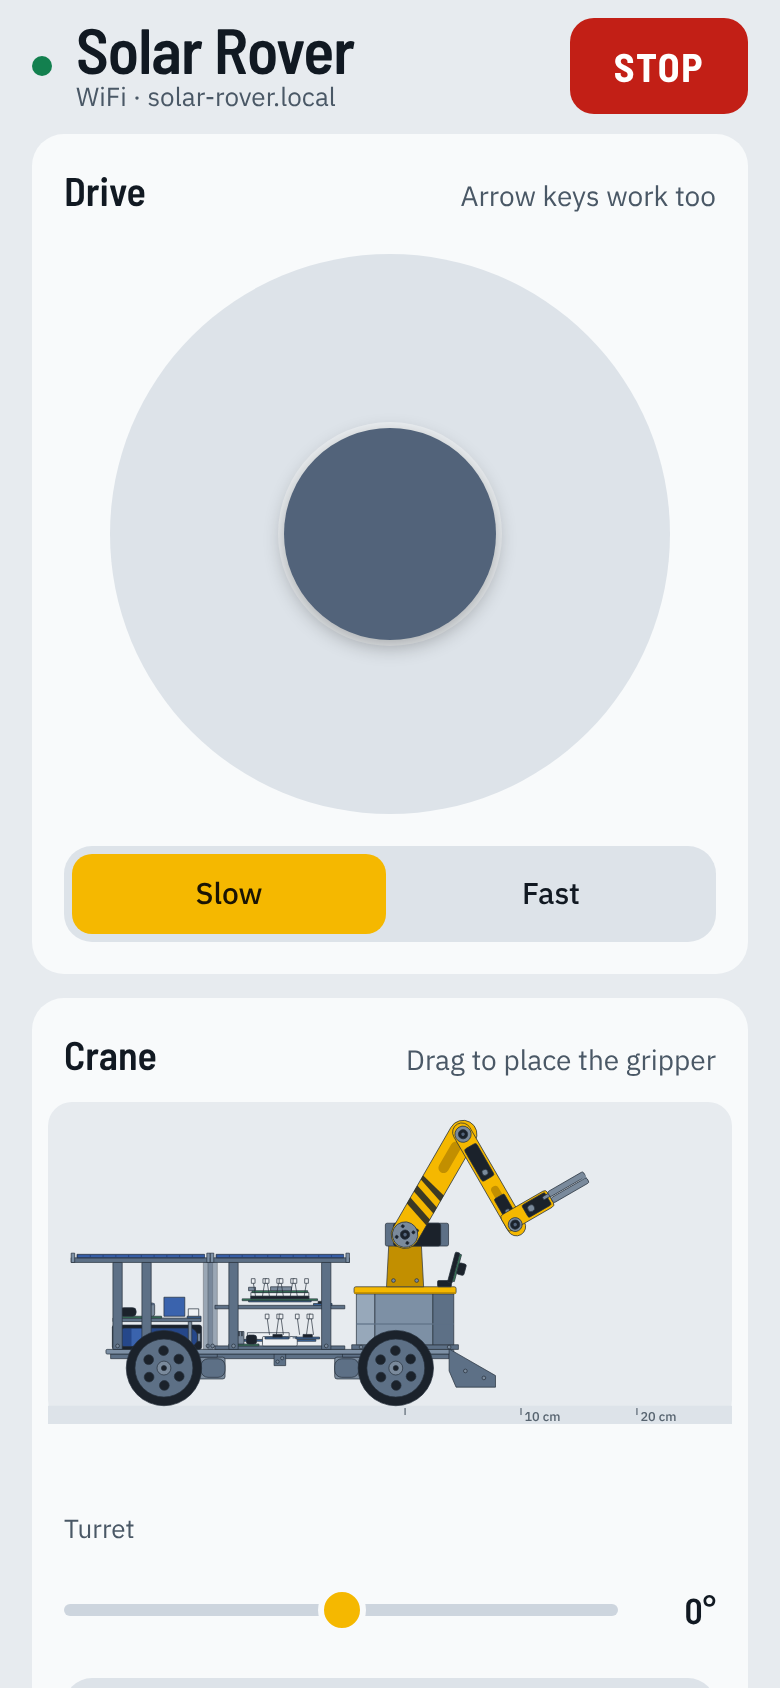
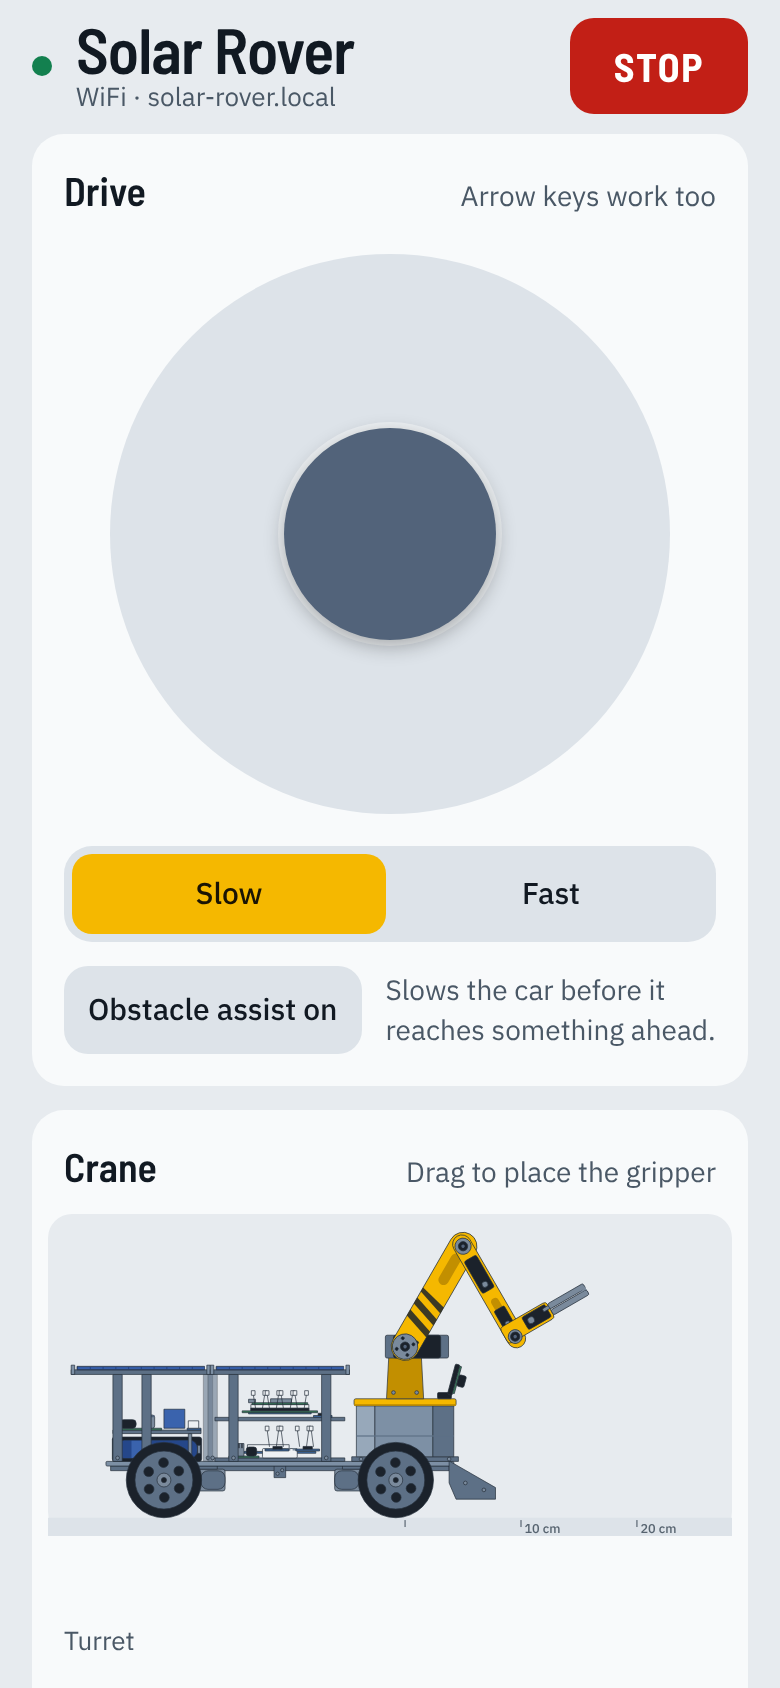
Obstacle assist for manual driving
The agent has the corner guard and the forward stop, but nothing slowed the
car when a person drove it into a wall from the phone or the remote. The
ESP32 now caps forward speed for manual sources so the car can still stop
6 cm short of what the front sensor sees (0.1 s lag, 1 m/s^2 braking), and
does the same for the corner sensor on the side being turned toward. It
never steers and never touches reverse or turning on the spot, and it is
re-checked every loop, not only when a command arrives.

- assist.h: the rule, plain C++, with a host test in CI (test_assist.cpp)
- control: applies it to manual sources only; ASSIST / ASSIST ON|OFF
  (refused from the agent link); telemetry "ast" 0 off / 1 on / 2 slowing
- app: an on/off button under the stick and a "slowing down" note; the
  browser check covers both; screenshots redrawn
- protocol, design and software docs

Claude-Session: https://claude.ai/code/session_016oPmBptoRr1DTraJVnNx7A

Changed region(s): [[0.0615, 0.5853, 0.9538, 1.0], [0.0615, 0.5545, 0.4615, 0.6469], [0.0615, 0.6777, 0.2154, 0.7085]]

diff --git a/firmware/car/web/index.html b/firmware/car/web/index.html
@@ -56,6 +56,9 @@ button:active{transform:scale(.97);background:var(--raised-2)}
 button.primary{background:var(--hazard);color:var(--on-hazard)}
 .row{display:flex;gap:var(--s2)}
 .row>*{flex:1}
+.assist{display:flex;align-items:center;gap:var(--s3);margin-top:var(--s3)}
+.assist button{flex:none}.assist .hint{margin:0}
+.assist .hint.on{color:var(--warn)}
 .seg{display:flex;gap:var(--s1);padding:var(--s1);background:var(--raised);border-radius:14px}
 .seg>button{flex:1;min-height:40px;background:transparent;border-radius:10px;padding:var(--s2) var(--s1)}
 .seg>button:active{background:var(--raised-2)}
@@ -132,6 +135,10 @@ input::placeholder{color:var(--ink-2);opacity:1}
       </div>
       <div class="seg" role="group" aria-label="Top speed">
         <button id="slow" class="sel" aria-pressed="true">Slow</button><button id="fast" aria-pressed="false">Fast</button>
+      </div>
+      <div class="assist">
+        <button id="assist" class="sel" aria-pressed="true" aria-describedby="assistHint">Obstacle assist on</button>
+        <p class="hint" id="assistHint" role="status" aria-live="polite">Slows the car before it reaches something ahead.</p>
       </div>
     </section>
     <section id="p-crane" aria-labelledby="hCrane">
@@ -271,6 +278,7 @@ input::placeholder{color:var(--ink-2);opacity:1}
     $('tof').textContent = cm(t.tof);
     $('sideRow').hidden = !t.side;   // older firmware sends no corner readings
     if (t.side) $('side').textContent = cm(t.side[0]) + ' · ' + cm(t.side[1]);
+    if (t.ast !== undefined) showAssist(t.ast);
     const v = (t.spd[0] + t.spd[1] + t.spd[2] + t.spd[3]) / 4;
     $('spd').textContent = (v / 1000).toFixed(2) + ' m/s';
     $('yawr').textContent = t.imu[5].toFixed(0) + ' °/s';
@@ -359,6 +367,18 @@ input::placeholder{color:var(--ink-2);opacity:1}
     if (Date.now() - lastYaw > 100) { lastYaw = Date.now(); send(`A ${e.target.value} * * * *`); }
   });
   $('yaw').addEventListener('change', e => send(`A ${e.target.value} * * * *`));
+
+  // ---------- obstacle assist (firmware/car/src/assist.h) ----------
+  let assistOn = true;
+  function showAssist(a) {
+    assistOn = a > 0; mark($('assist'), assistOn);
+    $('assist').textContent = assistOn ? 'Obstacle assist on' : 'Obstacle assist off';
+    const h = $('assistHint');
+    h.classList.toggle('on', a === 2);
+    h.textContent = a === 2 ? 'Slowing down: something close ahead.'
+      : assistOn ? 'Slows the car before it reaches something ahead.' : 'Off: nothing slows the car near obstacles.';
+  }
+  $('assist').onclick = () => { send(assistOn ? 'ASSIST OFF' : 'ASSIST ON'); showAssist(assistOn ? 0 : 1); };
 
   // ---------- buttons ----------
   $('stop').onclick = () => send('S');

diff --git a/tools/app_check.js b/tools/app_check.js
@@ -23,7 +23,7 @@ const TYPES = { '.html': 'text/html', '.css': 'text/css', '.js': 'text/javascrip
 // One telemetry line as firmware/car/src/telemetry.cpp writes it.
 const TEL = {
   bat_pct: 72, bat_v: 7.86, chg: 'solar', sol_mw: 3420, chg_ma: 410, temp_c: 24, tof: 820,
-  spd: [210, 205, 215, 200], imu: [0, 0, 9.8, 0, 0, 12], side: [310, -1], src: 'APP', ovr: false, mode: 'manual',
+  spd: [210, 205, 215, 200], imu: [0, 0, 9.8, 0, 0, 12], side: [310, -1], ast: 1, src: 'APP', ovr: false, mode: 'manual',
   arm: [0, 60, 120, 90, 0], low: false, crit: false,
 };
 
@@ -134,6 +134,18 @@ async function main() {
     await until(() => page.locator('#sideRow').isHidden(), 'the corner row stayed up');
     car.tel();
     await until(() => page.locator('#sideRow').isVisible(), 'the corner row did not come back');
+  });
+  await check('obstacle assist: shows when it slows the car, and the button turns it off and on', async () => {
+    car.tel({ ast: 2, tof: 140 });
+    await until(async () => (await text(page, '#assistHint')).startsWith('Slowing down'), 'no "slowing down" note');
+    car.tel(); car.clear();
+    await until(async () => !(await text(page, '#assistHint')).startsWith('Slowing'), 'the note stayed after it cleared');
+    await page.click('#assist');
+    await until(() => car.lines().includes('ASSIST OFF'), 'the button sent no ASSIST OFF');
+    expect((await page.locator('#assist').getAttribute('aria-pressed')) === 'false', 'the button still looks on');
+    car.tel({ ast: 0 }); await page.click('#assist');
+    await until(() => car.lines().includes('ASSIST ON'), 'the button sent no ASSIST ON');
+    car.tel();
   });
   await check('arrow keys drive: forward, then a stop when released', async () => {
     await page.locator('#pad').focus(); car.clear();

diff --git a/firmware/car/src/assist.h b/firmware/car/src/assist.h
@@ -1,0 +1,55 @@
+// Obstacle assist for manual driving (phone, Bluetooth, remote, USB, LoRa).
+// Plain C++ with no Arduino calls, so firmware/car/test/test_assist.cpp can
+// check it on a PC.
+//
+// The agent has its own guards (agent/solar_rover_agent/safety.py and the
+// 13 cm forward stop), trained against in the simulator, so this only runs for
+// manual sources. It never steers and never touches reverse or turning on the
+// spot: it only caps forward speed to what can still stop in time.
+//
+// Stopping model: the command reaches the wheels after ASSIST_LAG_S, then the
+// car brakes at ASSIST_DECEL_MM_S2, and must end ASSIST_MARGIN_MM short of the
+// obstacle. Solving  d - margin = v*lag + v^2 / (2*decel)  for v gives the
+// fastest safe speed for a reading d.
+#pragma once
+#include <math.h>
+
+constexpr float ASSIST_DECEL_MM_S2 = 1000.0f;  // well under the drive ramp (about 1800 mm/s^2)
+constexpr float ASSIST_LAG_S       = 0.10f;    // sensor period + loop + motor response
+constexpr float ASSIST_MARGIN_MM   = 60.0f;    // stop this far short (the nose overhangs the sensor a little)
+constexpr float ASSIST_CORNER_COS  = 0.342f;   // cos(70 deg): a thing on a corner ray closes at v*cos(70)
+
+// Fastest safe forward speed in mm/s for a reading of d mm (d < 0 = nothing seen).
+inline float assistSafeSpeed(int d_mm) {
+    if (d_mm < 0) return 1e9f;
+    float room = (float)d_mm - ASSIST_MARGIN_MM;
+    if (room <= 0) return 0;
+    const float a = ASSIST_DECEL_MM_S2, t = ASSIST_LAG_S;
+    return a * (-t + sqrtf(t * t + 2.0f * room / a));
+}
+
+struct AssistOut {
+    float left, right;
+    bool limiting;   // forward speed was cut
+};
+
+// left/right: the driver's tank command, -1..1. max_mm_s: wheel speed at 1.0.
+// front, side_l, side_r: sensor readings in mm, -1 = nothing within range or not fitted.
+// The corner readings only count on the side the driver is turning toward.
+inline AssistOut assistLimit(float left, float right, int front, int side_l, int side_r, float max_mm_s) {
+    float fwd = 0.5f * (left + right), turn = 0.5f * (right - left);   // turn > 0 = left
+    if (fwd <= 0) return {left, right, false};
+    float cap = assistSafeSpeed(front);
+    int side = turn > 0.05f ? side_l : turn < -0.05f ? side_r : -1;
+    if (side >= 0) {
+        // driving straight, a thing on a corner ray passes beside the car; turning toward it,
+        // the car closes on it at roughly v*cos(70 deg), so d on that ray is worth d/cos(70)
+        // of straight-ahead room
+        float c = assistSafeSpeed((int)(side / ASSIST_CORNER_COS));
+        cap = fminf(cap, c);
+    }
+    float capCmd = cap / max_mm_s;
+    if (fwd <= capCmd) return {left, right, false};
+    float f = capCmd < 0 ? 0 : capCmd;
+    return {f - turn, f + turn, true};
+}

diff --git a/firmware/car/test/test_assist.cpp b/firmware/car/test/test_assist.cpp
@@ -1,0 +1,52 @@
+// PC test of the manual-driving obstacle assist. CI builds and runs it:
+//   g++ -std=c++17 -Wall -Werror -I../src test_assist.cpp -o /tmp/tas && /tmp/tas
+#include <cstdio>
+#include <cmath>
+#include "assist.h"
+
+static int failures = 0;
+static void expect(bool ok, const char* what) {
+    if (!ok) { std::printf("FAIL %s\n", what); failures++; }
+}
+static bool near(float a, float b, float tol = 1e-4f) { return std::fabs(a - b) < tol; }
+
+int main() {
+    const float VMAX = 600;
+    // nothing seen: untouched
+    AssistOut o = assistLimit(1, 1, -1, -1, -1, VMAX);
+    expect(!o.limiting && o.left == 1 && o.right == 1, "clear road untouched");
+    // far wall: full speed still stops in time
+    o = assistLimit(1, 1, 400, -1, -1, VMAX);
+    expect(!o.limiting, "40 cm ahead: full speed is fine");
+    // the safe speed really stops short of the margin
+    for (int d = 70; d <= 600; d += 10) {
+        float v = assistSafeSpeed(d);
+        float stop = v * ASSIST_LAG_S + v * v / (2 * ASSIST_DECEL_MM_S2);
+        expect(stop <= d - ASSIST_MARGIN_MM + 0.5f, "safe speed stops before the margin");
+    }
+    // closer means slower, and inside the margin means stop
+    expect(assistSafeSpeed(150) < assistSafeSpeed(250), "closer is slower");
+    o = assistLimit(1, 1, 50, -1, -1, VMAX);
+    expect(o.limiting && near(o.left, 0) && near(o.right, 0), "inside the margin: no forward");
+    // 15 cm ahead: capped, and the turn the driver asked for is kept
+    o = assistLimit(0.8f, 1.0f, 150, -1, -1, VMAX);
+    expect(o.limiting && near(o.right - o.left, 0.2f) && 0.5f * (o.left + o.right) < 0.9f, "capped, turn kept");
+    // reverse and turning on the spot are never touched
+    o = assistLimit(-1, -1, 30, 30, 30, VMAX);
+    expect(!o.limiting && o.left == -1, "reverse untouched");
+    o = assistLimit(-0.5f, 0.5f, 30, 30, 30, VMAX);
+    expect(!o.limiting && o.left == -0.5f, "spin untouched");
+    // a close left corner only matters when turning left
+    o = assistLimit(1, 1, -1, 40, -1, VMAX);
+    expect(!o.limiting, "straight past a close left corner");
+    o = assistLimit(0.6f, 1.0f, -1, 40, -1, VMAX);
+    expect(o.limiting, "turning into a close left corner slows");
+    o = assistLimit(1.0f, 0.6f, -1, 40, -1, VMAX);
+    expect(!o.limiting, "turning away from it does not");
+    // slow driving near something is left alone
+    o = assistLimit(0.2f, 0.2f, 200, -1, -1, VMAX);
+    expect(!o.limiting, "slow approach untouched");
+
+    std::printf(failures ? "%d failure(s)\n" : "assist: all checks passed\n", failures);
+    return failures ? 1 : 0;
+}

diff --git a/firmware/car/src/control.cpp b/firmware/car/src/control.cpp
@@ -2,6 +2,7 @@
 #include "drive.h"
 #include "arm.h"
 #include "bringup.h"
+#include "assist.h"
 
 namespace {
 Mode curMode = Mode::AUTO;
@@ -10,6 +11,20 @@ uint32_t lastSeen[(int)Source::COUNT] = {0};
 uint32_t lastManualMs = 0;
 uint32_t lastDriveMs = 0;
 bool critHandled = false;
+bool assist = true;
+float manCmd[2] = {0, 0};      // the manual driver's own command, before the assist
+
+// manual sources get the obstacle assist; the agent has its own guards
+void applyDrive(Source s, float l, float r) {
+    bool manual = s != Source::AGENT && s != Source::NONE;
+    if (!manual || !assist) { drive::set(l, r); gDrive.assist = assist ? 1 : 0; return; }
+    manCmd[0] = l; manCmd[1] = r;
+    const SensorState& z = gSensors;
+    AssistOut o = assistLimit(l, r, z.tof_ok ? z.tof_mm : -1, z.side_ok[0] ? z.side_mm[0] : -1,
+                              z.side_ok[1] ? z.side_mm[1] : -1, MAX_WHEEL_MM_S);
+    drive::set(o.left, o.right);
+    gDrive.assist = o.limiting ? 2 : 1;
+}
 
 bool isManual(Source s) { return s != Source::AGENT && s != Source::NONE; }
 uint32_t timeoutFor(Source s) { return s == Source::LORA ? LORA_TIMEOUT_MS : LINK_TIMEOUT_MS; }
@@ -57,7 +72,7 @@ bool drive(Source s, float l, float r) {
     touch(s, active);
     if (!allowed(s)) return false;
     if (!active && owner != s && owner != Source::NONE) return true;   // idle input never steals control
-    drive::set(l, r);
+    applyDrive(s, l, r);
     owner = active ? s : (owner == s ? Source::NONE : owner);
     lastDriveMs = millis();
     return true;
@@ -100,6 +115,9 @@ void setMode(Source s, Mode m) {
     owner = Source::NONE;
 }
 
+void setAssist(bool on) { assist = on; gDrive.assist = on ? 1 : 0; }
+bool assistOn() { return assist; }
+
 Mode mode() { return curMode; }
 Source driver() { return owner; }
 bool manualOverrideActive() { return curMode == Mode::AUTO && millis() - lastManualMs < MANUAL_OVERRIDE_MS && lastManualMs != 0; }
@@ -112,6 +130,9 @@ void update() {
         owner = Source::NONE;
     }
     if (owner == Source::NONE && now - lastDriveMs > LINK_TIMEOUT_MS) drive::stop();
+    // the obstacle can come closer between two commands: re-check the manual command every loop
+    if (owner != Source::NONE && owner != Source::AGENT && assist) applyDrive(owner, manCmd[0], manCmd[1]);
+    else if (owner == Source::NONE) gDrive.assist = assist ? 1 : 0;
     // battery critical: stop, fold the arm, then let it go limp
     if (gPower.critical && !critHandled) {
         drive::stop();

diff --git a/firmware/car/src/protocol.cpp b/firmware/car/src/protocol.cpp
@@ -76,6 +76,12 @@ bool handle(Source src, const char* lineIn, String& reply) {
         control::stop(src);
     } else if (!strcasecmp(c, "H")) {
         control::heartbeat(src);
+    } else if (!strcasecmp(c, "ASSIST")) {                // ASSIST | ASSIST <ON|OFF>: obstacle assist for manual driving
+        if (argc >= 2 && src == Source::AGENT) reply = "ERR not from this link";
+        else if (argc >= 2 && !strcasecmp(argv[1], "ON")) control::setAssist(true);
+        else if (argc >= 2 && !strcasecmp(argv[1], "OFF")) control::setAssist(false);
+        else if (argc >= 2) reply = "ERR usage: ASSIST <ON|OFF>";
+        if (!reply.length()) reply = String("ASSIST ") + (control::assistOn() ? "on" : "off");
     } else if (!strcasecmp(c, "CL") && argc >= 2) {       // CL <0|1> closed-loop wheel speed
         drive::setClosedLoop(atoi(argv[1]) != 0);
     } else if (!strcasecmp(c, "LORA")) {                  // LORA | LORA REGION <US|EU> | LORA REKEY
@@ -128,12 +134,12 @@ size_t telemetry(char* b, size_t len) {
         "\"bat_v\":%.2f,\"bat_pct\":%.0f,\"chg_ma\":%.0f,\"sol_v\":%.2f,\"sol_mw\":%.0f,"
         "\"temp_c\":%.1f,\"chg\":\"%s\",\"low\":%d,\"crit\":%d,"
         "\"enc\":[%ld,%ld,%ld,%ld],\"spd\":[%.0f,%.0f,%.0f,%.0f],"
-        "\"imu\":[%.3f,%.3f,%.3f,%.1f,%.1f,%.1f],\"tof\":%d,\"side\":[%d,%d],"
+        "\"imu\":[%.3f,%.3f,%.3f,%.1f,%.1f,%.1f],\"tof\":%d,\"side\":[%d,%d],\"ast\":%d,"
         "\"arm\":[%.1f,%.1f,%.1f,%.1f,%.0f],\"lr\":[%d,%d,%lu]}",
         (unsigned long)millis(), modeName(control::mode()), sourceName(control::driver()), control::manualOverrideActive(),
         p.batt_v, p.pct, p.charge_ma, p.solar_v, p.solar_mw, p.temp_c, p.charge_state, p.low, p.critical,
         d.enc[0], d.enc[1], d.enc[2], d.enc[3], d.speed_mm_s[0], d.speed_mm_s[1], d.speed_mm_s[2], d.speed_mm_s[3],
-        s.ax, s.ay, s.az, s.gx, s.gy, s.gz, s.tof_mm, s.side_mm[0], s.side_mm[1],
+        s.ax, s.ay, s.az, s.gx, s.gy, s.gz, s.tof_mm, s.side_mm[0], s.side_mm[1], d.assist,
         arm::angle(0), arm::angle(1), arm::angle(2), arm::angle(3), arm::angle(4),
         longrange::ok(), longrange::lastRssi(),
         (unsigned long)(longrange::lastFrameMs() ? min<uint32_t>(millis() - longrange::lastFrameMs(), 999999) : 999999));

diff --git a/firmware/car/src/control.h b/firmware/car/src/control.h
@@ -17,6 +17,8 @@ bool grip(Source s, float pct);
 void stop(Source s);                              // always accepted
 void heartbeat(Source s);
 void setMode(Source s, Mode m);
+void setAssist(bool on);                          // obstacle assist for manual driving (assist.h), on at boot
+bool assistOn();
 
 Mode mode();
 Source driver();          // source currently driving (NONE when idle)

diff --git a/firmware/car/src/state.h b/firmware/car/src/state.h
@@ -33,6 +33,7 @@ struct DriveState {
     float speed_mm_s[4] = {0, 0, 0, 0};
     float duty[4] = {0, 0, 0, 0};
     float cmd_left = 0, cmd_right = 0;  // -1..1
+    uint8_t assist = 1;                 // obstacle assist for manual driving: 0 off, 1 on, 2 slowing the car now
 };
 
 extern PowerState  gPower;

diff --git a/docs/protocol.md b/docs/protocol.md
@@ -40,6 +40,7 @@ Values are integers unless noted. Speeds run from −1000 to 1000 (= −100 % to
 | `LORA REKEY` | New random LoRa key (if the remote was lost). Opens pairing for 60 s |
 | `TEST WHEELS` | Bring-up check: runs each wheel alone and replies `TEST wheel <FL\|RL\|FR\|RR> <verdict>` per wheel, then `TEST done <n>/4 ok`. Car on the floor; `S` stops it. Not accepted from the remote or the agent. |
 | `RESTART` | Reboot the ESP32 |
+| `ASSIST` / `ASSIST ON` / `ASSIST OFF` | Obstacle assist for manual driving (on at every boot): caps forward speed so the car can still stop 6 cm short of what the front sensor sees, and of what a corner sensor sees on the side you're turning toward. Never steers, never touches reverse or turning on the spot. Not from the agent link. Replies `ASSIST on` or `ASSIST off`. |
 | `INFO` | Replies `solar-rover fw 0.1 mode=… ip=… tof=ok corners=ok/ok mux` (which distance sensors answered) |
 
 Errors come back as `ERR <reason>`, for example `ERR mode` when the current mode doesn't let that link drive.
@@ -69,7 +70,7 @@ The car sends one JSON line at 20 Hz on the UART and 10 Hz to WebSocket and BLE 
  "bat_v":7.86,"bat_pct":72,"chg_ma":310,"sol_v":11.2,"sol_mw":3450,
  "temp_c":24.5,"chg":"solar","low":0,"crit":0,
  "enc":[1020,1018,995,1001],"spd":[210,205,198,202],
- "imu":[0.012,-0.004,0.998,0.4,-0.2,12.5],"tof":640,"side":[310,-1],
+ "imu":[0.012,-0.004,0.998,0.4,-0.2,12.5],"tof":640,"side":[310,-1],"ast":1,
  "arm":[0.0,45.0,60.0,-10.0,60]}
 ```
 
@@ -85,6 +86,7 @@ The car sends one JSON line at 20 Hz on the UART and 10 Hz to WebSocket and BLE 
 | `imu` | ax, ay, az in g; gx, gy, gz in °/s |
 | `tof` | Front distance in mm (−1 = nothing within 2 m) |
 | `side` | Left and right front-corner distances in mm, each sensor aimed 70° out (−1 = nothing within 2 m, or not fitted) |
+| `ast` | Obstacle assist: 0 off, 1 on, 2 slowing the car right now |
 | `arm` | Joint angles in degrees: yaw, shoulder, elbow, wrist, grip % |
 
 `lr` (at the end of every line) is the long-range link: `[module ok 0/1, RSSI of the last frame in dBm (0 = none yet), ms since that frame (999999 = never)]`, for example `"lr":[1,-92,40]`. `src` is `lora` while the remote drives over LoRa.

diff --git a/docs/design.md b/docs/design.md
@@ -53,6 +53,7 @@ Solar 2x 6 V 2 W (series) ── SS54 ─┐
 - **Raspberry Pi Zero 2 W** runs the agent and talks to the ESP32 over UART. It's optional: the same agent runs on a PC over WiFi.
 - **Links:** handheld ESP-NOW remote, phone web app over WiFi, Bluetooth LE (Nordic UART), and UART to the Pi. They all use one text protocol ([protocol.md](protocol.md)).
 - **Long range:** an E220 LoRa radio in the car and in the remote. The remote switches to it by itself when ESP-NOW stops getting through (about 100 m) and back when ESP-NOW returns, so the same remote drives the car out to 1–3 km in the open (*est.*), at 60 % top speed. Frames are signed and can't be replayed, the watchdog still stops the car if LoRa goes quiet for 700 ms, and an airtime budget keeps to each region's duty-cycle rule (protocol.md, "Long-range link").
+- **Obstacle assist** (manual driving only): the ESP32 caps forward speed so the car can still stop 6 cm short of what the front sensor sees, assuming 0.1 s of lag and 1 m/s² of braking, and does the same for a corner sensor on the side you're turning toward. At 30 cm it allows full speed, at 15 cm about half. It never steers. The app has an on/off button (`ASSIST`); it's on at every boot. The agent has its own guards instead, the ones the simulator trains against.
 - **Priority:** low-battery override first, then manual input, then the agent. In `auto` mode any manual input takes over for 2 s. If the driving link goes quiet for 300 ms, the motors stop.
 
 ## RL agent

diff --git a/docs/software.md b/docs/software.md
@@ -49,7 +49,7 @@ Pairing also gives the remote the key for the **long-range LoRa link** (protocol
 
 1. On the phone, join WiFi **SolarRover-XXXX**, password `solarrover123`.
 2. Open **http://192.168.4.1**. The app connects by itself.
-3. The stick drives (arrow keys or WASD work on a keyboard). In the crane view, drag to where you want the gripper and the arm works out its own joint angles, or tap a pose. **STOP**, or Escape on a keyboard, stops everything.
+3. The stick drives (arrow keys or WASD work on a keyboard). **Obstacle assist** is on by default: the car slows on its own as it gets close to something ahead and the app says so under the stick. Tap **Obstacle assist on** to turn it off, for pushing a ball or nudging into a charging spot. In the crane view, drag to where you want the gripper and the arm works out its own joint angles, or tap a pose. **STOP**, or Escape on a keyboard, stops everything.
 4. To use your home WiFi instead, enter it under "Put the car on your home WiFi" in the app and tap **Save and restart**. The car then also appears at **http://solar-rover.local** (or the IP shown in the app) on your home network. Its own `SolarRover-XXXX` network stays on as a fallback.
 
 **Bluetooth:** browsers only allow Bluetooth on an `https://` page, and the car serves its app over plain `http://`. So for Bluetooth, either:
